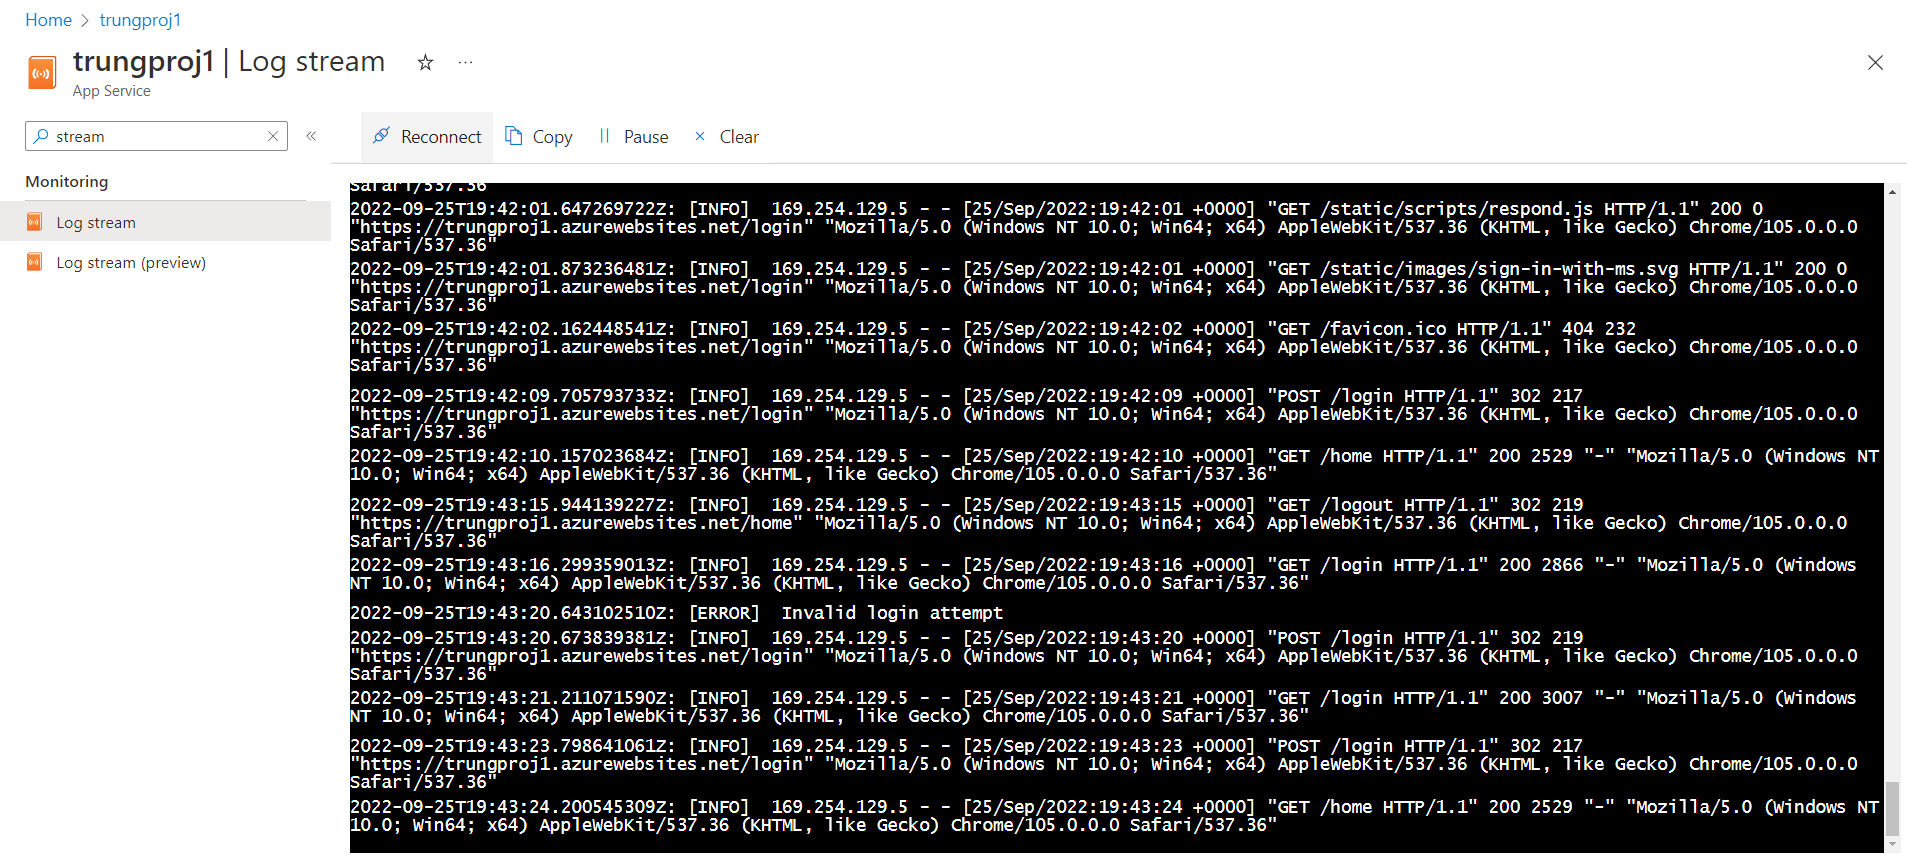
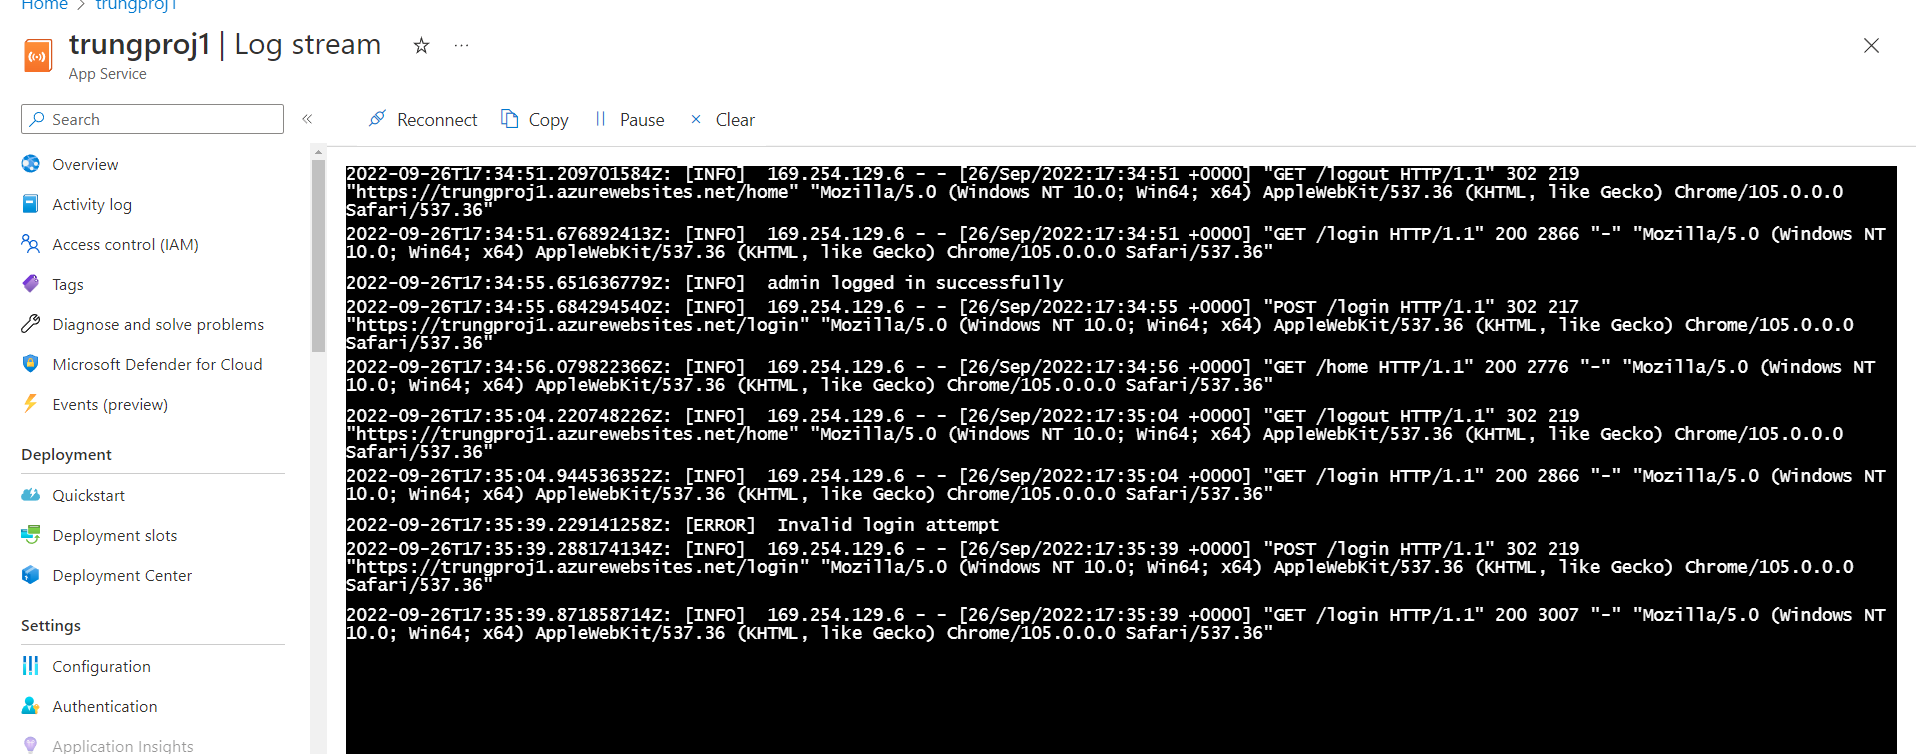
fix info

diff --git a/FlaskWebProject/views.py b/FlaskWebProject/views.py
@@ -74,7 +74,7 @@ def login():
         login_user(user, remember=form.remember_me.data)
         next_page = request.args.get('next')
         if not next_page or url_parse(next_page).netloc != '':
-            logger.warning('admin logged in successfully')
+            logger.info('admin logged in successfully')
             next_page = url_for('home')
         return redirect(next_page)
     session["state"] = str(uuid.uuid4())
